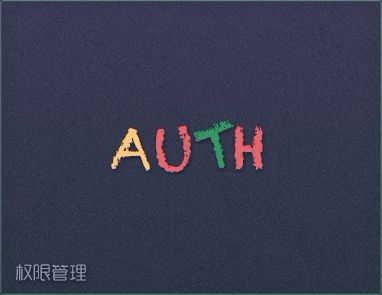
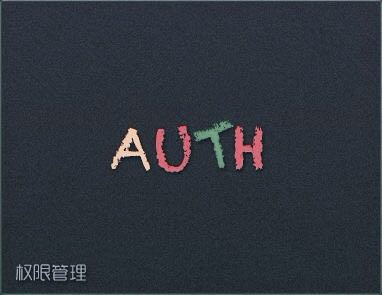
添加ALM系统图片

Changed region(s): [[0.288, 0.3966, 0.7199, 0.6102], [0.7487, 0.0, 0.7775, 0.0305], [0.4895, 0.3661, 0.5183, 0.3966]]

diff --git a/AM/src/main/webapp/WEB-INF/views/login/login_v2.html b/AM/src/main/webapp/WEB-INF/views/login/login_v2.html
@@ -22,15 +22,13 @@ if (window.top !== window.self) {
 </head>
 
 <body class="signin">
-	<div style="text-align:center; margin-bottom: -150px; margin-top: 80px; color: lightgrey; font-size: xx-large;">
-		<span>商业银行管理会计应用服务管理平台</span>
-	</div>
+	
 	
 	<div class="signinpanel">
 		<div class="row">
 			<div class="col-sm-12">
 				<form id="loginform">
-					<div><img src="static/img/tianjian.png" style="margin: 0 0 0 50px"/></div>
+					<div style="text-align:center; font-size: 23px;font-family: 微软雅黑; color: #bfbfbf"> 管理会计应用服务管理平台<!-- <img src="static/img/tianjian.png" style="margin: 0 0 0 50px"/> --></div>
 					<input type="text" id="username" name="username" class="form-control uname"
 						placeholder="用户" /><img class="usrPic" src="static/img/user.png"
 						style="position: relative;left: 260px;top:-25px;opacity: 0.6;">

diff --git a/AM/src/main/webapp/static/css/login.css b/AM/src/main/webapp/static/css/login.css
@@ -1,7 +1,8 @@
 html{height: 100%;}
 body.signin {
     height: auto;
-    background:url("../img/Auth_02.png");
+   /* background:url("../img/Auth_02.png");*/
+    background-color:#2d3645; 
 }
 
 .signinpanel {
@@ -76,7 +77,8 @@ background-color: #FFFFFF;
 	border: 1px solid #8199ad;
 }
 .signinpanel form {
-    background: url("../img/Auth_02.png");
+     /*   background: url("../img/Auth_02.png");*/
+    background-color:#2d3645;    
     border: 1px solid #485a69;
      box-shadow: 0px 0px 16px 2px rgba(1,11,20,0.3);
     -moz-box-shadow: 0px 0px 16px 2px rgba(1,11,20,0.3);
@@ -89,7 +91,8 @@ background-color: #FFFFFF;
 
 .signup-footer{border-top: solid 1px #49647c;padding-top:50px;}
 .copyright{
-	color: #49647c;
+	/*color: #49647c;*/
+	color:#D0D0D0;
 	font-family: "微软雅黑";
 	font-size: 12px;
 	font-weight: lighter;

diff --git a/AM/src/main/webapp/static/css/templatemo-style.css b/AM/src/main/webapp/static/css/templatemo-style.css
@@ -218,7 +218,7 @@ h5 {
 }
 
 .bg-overlay {
-    background: #303948;
+    background: #404652;
     position: fixed;
     width: 100%;
     height: 100%;
